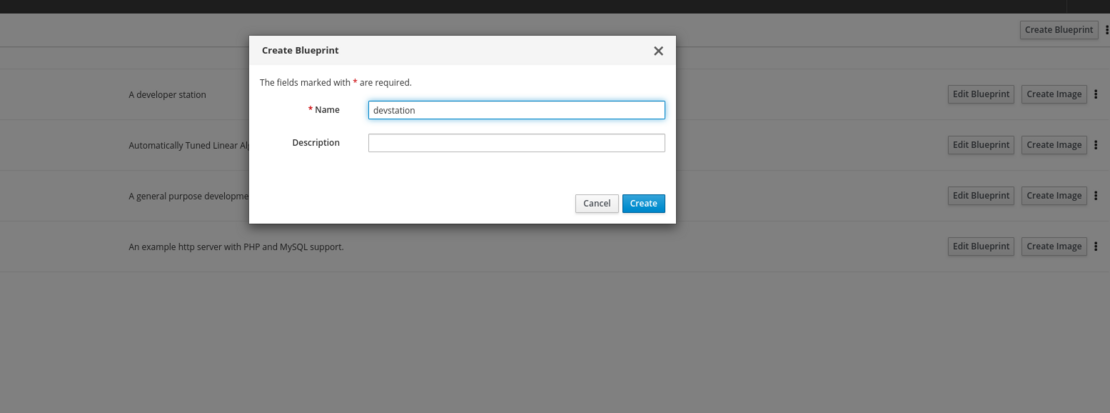
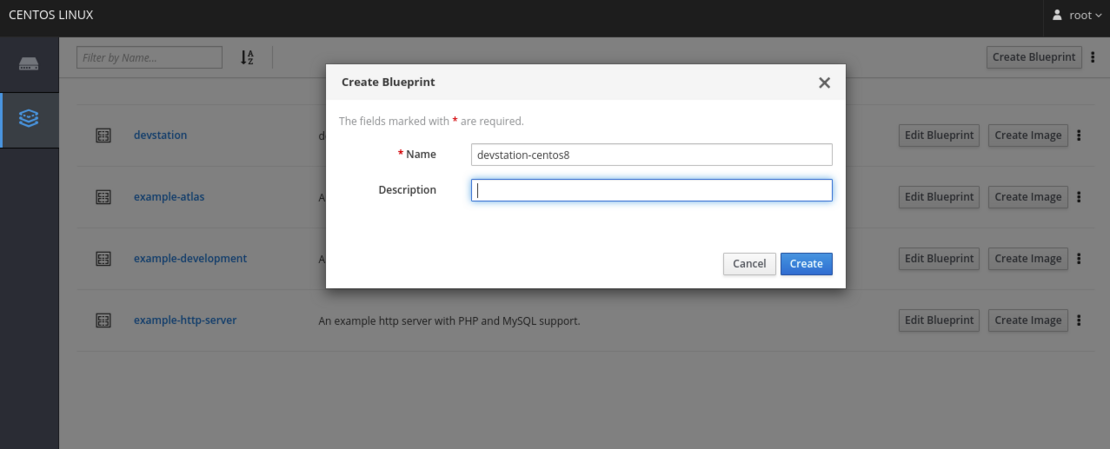
Modifications suggested by ptrnull

diff --git a/_posts/2020-03-11-Customizing-images-for-containerized-vms.md b/_posts/2020-03-11-Customizing-images-for-containerized-vms.md
@@ -29,15 +29,15 @@ pub-year: 2020
 
 - [The vision](#the-vision)
 - [Preparation of the environment](#preparation-of-the-environment)
-  - [Configuration of the Builder image server](#configuration-of-the-builder-image-server)
+    - [Configuration of the Builder image server](#configuration-of-the-builder-image-server)
 - [Building standard CentOS 8 image](#building-standard-centos-8-image)
-  - [Image creation with Builder Tool](#image-creation-with-builder-tool)
-  - [Verify the custom-built image](#verify-the-custom-built-image)
-  - [Image tailoring with virt-customize](#image-tailoring-with-virt-customize)
-- [Building standard CentOS 7 image from cloud images](#building-standard-centos-7-image-from-cloud-images)
-  - [Image creation with virt-customize](#image-creation-with-virt-customize)
+    - [Image creation with Builder Tool](#image-creation-with-builder-tool)
+    - [Verify the custom-built image](#verify-the-custom-built-image)
+    - [Image tailoring with virt-customize](#image-tailoring-with-virt-customize)
+- [Building a standard CentOS 7 image from cloud images](#building-a-standard-centos-7-image-from-cloud-images)
+    - [Image creation with virt-customize](#image-creation-with-virt-customize)
 - [Image containerization procedure](#image-containerization-procedure)
-  - [Store the image in the container registry](#store-the-image-in-the-container-registry)
+    - [Store the image in the container registry](#store-the-image-in-the-container-registry)
 - [Summary](#summary)
 - [References](#references)
 
@@ -81,7 +81,7 @@ Running containerized VMs in KubeVirt uses the [containerDisk](https://kubevirt.
 Prior to run VMs in KubeVirt, it first must be running in the Kubernetes cluster. The company already have an [OKD 4 Kubernetes cluster](https://www.okd.io/) installed which provides out of the box a container registry and some required security features such as _Role Based Access Controls (RBAC)_ and _Security Context Constraints (SCC)_.
 
 > info "Information"
-> [Here](https://blog.openshift.com/enterprise-kubernetes-with-openshift-part-one/) you can find useful information between the similarities and differences between OKD and Kubernetes.
+> In the [OpenShift blog](https://blog.openshift.com/) there is a post called [Enterprise Kubernetes with OpenShift](https://blog.openshift.com/enterprise-kubernetes-with-openshift-part-one/) where you can find valuable information between the similarities and differences between OKD and Kubernetes.
 
 On top of the OKD cluster, KubeVirt is required so that we can run our virtual machines. The installation process is pretty well detailed in the [KubeVirt's documentation](https://kubevirt.io/pages/cloud.html). Below it is shown how KubeVirt components can be seen from the OKD web console.
 
@@ -161,22 +161,23 @@ Along this blog post, both tools are used together in the image building process
 
 ### Configuration of the Builder image server
 
-In order to prepare the building environment, it is recommended to install Image Builder in a dedicated machine as it has specific security requirements. Actually, the `lorax-composer` which is one of its components doesn’t work properly with SELinux running, as it installs an entire OS image in an alternate directory.
+In order to prepare the building environment, it is recommended to install Image Builder in a dedicated server as it has specific security requirements. Actually, the `lorax-composer` which is one of its components doesn’t work properly with SELinux running, as it installs an entire OS image in an alternate directory.
 
 > warning "Warning"
-> As shown in the [lorax-composer documentation](https://weldr.io/Running-Composer-on-RHEL/) SELinux must be disabled. However, I have been able to create custom images successfully with SELinux enabled. During this blog post all image builds are created with SELinux enabled. However, in case you find any problems during your building, check the `lorax-composer` logs in journal in order to get more detailed information.
+> As shown in the [lorax-composer documentation](https://weldr.io/Running-Composer-on-RHEL/) SELinux must be disabled. However, I have been able to create custom images successfully with SELinux enabled. During this blog post all image builds are created with SELinux enabled. In case you find any problems during your building, check the `lorax-composer` logs in journal in order to get more detailed information.
 
 Here it is a table where the software required to run the builds along with the versions have been used.
 
 > note "Note"
 > Operating System is **CentOS 8** since CentOS 7 Image Builder is still an [experimental feature](https://docs.centos.org/en-US/centos/install-guide/Composer/)
 
-| Configuration      | Value                                                                        |
-| ------------------ | ---------------------------------------------------------------------------- |
-| `Operating System` | `CentOS Linux release 8.1.1911 (Core)`                                       |
-| `Libvirt`          | `libvirtd (libvirt) 4.5.0`                                                   |
-| `virt-customize`   | `virt-customize 1.38.4rhel=8,release=14.module_el8.1.0+248+298dec18,libvirt` |
-| `Image Builder`    | `lorax-composer, composer-cli, (composer-cli-28.14.30-1), cockpit-composer`  |
+
+| Component     | Version                                                                                            |
+| --------- | ----------------------------------------------------------------------------------------------- |
+| Operating System  | CentOS Linux release 8.1.1911 (Core) |
+| Libvirt | libvirtd (libvirt) 4.5.0                               |
+| virt-customize | virt-customize 1.38.4rhel=8,release=14.module_el8.1.0+248+298dec18,libvirt |
+| Image Builder | lorax-composer (28.14.30-1), composer-cli (composer-cli-28.14.30-1), cockpit-composer (cockpit-composer-5-1.el8.noarch) |
 
 Once the builder image server is provisioned with latest CentOS 8, the `Virtualization Host` group package is installed. It will be required to test our customized images locally before containerizing and pushing them to the OKD registry.
 
@@ -185,7 +186,9 @@ $ yum groupinstall "Virtualization Host" -y
 $ systemctl enable libvirtd --now
 ```
 
-Next, `virt-customize` is installed from the `libguestfs-tools` package along with the Image Builder. The latest is composed by lorax-composer, the Cockpit composer plugin and the composer-cli, which will be used in case we want to interact directly with Composer.
+<br>
+
+Next, `virt-customize` is installed from the `libguestfs-tools` package along with the Image Builder. The latest is composed by lorax-composer, the Cockpit composer plugin and the composer-cli, which will be used to interact directly with Composer using command-line.
 
 ```sh
 $ dnf install -y libguestfs-tools lorax-composer composer-cli cockpit-composer
@@ -194,13 +197,16 @@ $ systemctl enable lorax-composer --now
 $ systemctl start cockpit
 ```
 
-Then, the local firewall is configured so that we can connect to the Cockpit user interface via HTTP from our workstation.
+<br>
+
+Then, the local firewall is configured so that we can connect to the Cockpit web user interface from our workstation.
 
 ```sh
 $ firewall-cmd --add-service=cockpit && firewall-cmd --add-service=cockpit --permanent
 ```
+<br>
 
-Finally, verify you can connect to the Cockpit user interface and log in with the builder image server local account.
+Finally, connect to the Cockpit user interface by typing the IP or name of the Builder image server and port _tcp/9000_ (Cockpit's default) in your favourite web browser. Then, log in with a local administrator account.
 
 <div class="my-gallery" itemscope itemtype="http://schema.org/ImageGallery">
   <figure
@@ -248,13 +254,21 @@ The following image shows the Image Build plugin web page. Actually, what it is 
   </figure>
 </div>
 
+> error "Error"
+> If Cockpit's web UI is not working, take a look at the output of the lorax service with the command: 
+> ```sh
+> $ journalctl -fu lorax-composer
+> ```
+
+
+
 ## Building standard CentOS 8 image
 
 It is time to create our standardized CentOS 8 image or also called golden CentOS 8 image. This image will be built from the ground up using the Image Builder tool.
 
 ### Image creation with Builder Tool
 
-The easiest way to start is creating a new blueprint from the Cockpit user interface. This will produce a scaffold file where all the required modifications can be made. Here it is shown the process of creation a new blueprint from Cockpit:
+The easiest way to start is creating a new blueprint (devstation-centos8) from the Cockpit user interface. This will produce a scaffold file where all the required modifications can be made. Here it is shown the process of creation a new blueprint from Cockpit:
 
 <div class="my-gallery" itemscope itemtype="http://schema.org/ImageGallery">
   <figure
@@ -265,7 +279,7 @@ The easiest way to start is creating a new blueprint from the Cockpit user inter
     <a
       href="/assets/2020-03-11-Customizing-images-for-containerized-vms/create_blueprint.png"
       itemprop="contentUrl"
-      data-size="1110x413"
+      data-size="1110x449"
     >
       <img
         src="/assets/2020-03-11-Customizing-images-for-containerized-vms/create_blueprint.png"
@@ -278,14 +292,38 @@ The easiest way to start is creating a new blueprint from the Cockpit user inter
   </figure>
 </div>
 
-I would also suggest adding some users and all the packages you want to install from the user interface. In our case, we are going to create the following users. In both cases, the password is known by the respective group of users and also belongs to the wheel group.
+I would also suggest adding some users and all the packages you want to install from the user interface. In our case, we are going to create the following users by clicking on the details tab of the new blueprint. In both cases, the password is known by the respective group of users and also belongs to the wheel group.
 
 | Users     | Note                                                                                            |
 | --------- | ----------------------------------------------------------------------------------------------- |
 | sysadmin  | Privileged user owned by the Systems Engineering team to troubleshoot and have access to the VM |
 | developer | These are the credentials used by the developers to access the VM                               |
 
-Next, specify the packages to include. Add the proper version of the package already agreed with the customer.
+
+<div class="my-gallery" itemscope itemtype="http://schema.org/ImageGallery">
+  <figure
+    itemprop="associatedMedia"
+    itemscope
+    itemtype="http://schema.org/ImageObject"
+  >
+    <a
+      href="/assets/2020-03-11-Customizing-images-for-containerized-vms/users.png"
+      itemprop="contentUrl"
+      data-size="1110x380"
+    >
+      <img
+        src="/assets/2020-03-11-Customizing-images-for-containerized-vms/users.png"
+        itemprop="thumbnail"
+        width="100%"
+        alt="VM to VM"
+      />
+    </a>
+    <figcaption itemprop="caption description"></figcaption>
+  </figure>
+</div>
+
+
+Next, select the packages to include. Add the proper version of the package already agreed with the customer.
 
 | Package        | Version |
 | -------------- | ------- |
@@ -333,7 +371,10 @@ $ ls
 devstation-centos8.toml
 ```
 
-Now, let’s edit the `devstation-centos8.toml` file which is in charge of building our custom image:
+> info "Information"
+> All composer-cli options are documented in the [official webpage](https://weldr.io/lorax/composer-cli.html). Take a look if you need further detail.
+
+Now, let’s edit the `devstation-centos8.toml` file which is in charge of building our custom image. 
 
 - The timezone has been added to match Europe/Madrid with proper NTP servers.
 - The kernel has been modified to allow connection via console.
@@ -447,7 +488,7 @@ Mar 02 09:19:09 eko7.cloud.lab.eng.bos.redhat.com lorax-composer[26293]: 2020-03
 ...
 ```
 
-Once the building image is finished, it is time to download the `qcow2` file. It can be downloaded from Cockpit or from the composer-cli:
+Once the building process is finished, it is time to download the `QCOW2` file. It can be downloaded from Cockpit UI or from the composer-cli:
 
 ```sh
 $ composer-cli compose image ea8089f6-7e60-4282-a4e8-5c168246c0b6
@@ -458,7 +499,7 @@ $ ls -lhrt
 -rw-r--r--. 1 root root 1.9G Mar  2 09:31 ea8089f6-7e60-4282-a4e8-5c168246c0b6-disk.qcow2
 ```
 
-Afterwards the image is renamed to something more meaningful and the information given by qemu reviewed as exhibited below:
+Afterwards, the image is renamed to something more meaningful and the information given by qemu reviewed as exhibited below:
 
 ```sh
 $ mv ea8089f6-7e60-4282-a4e8-5c168246c0b6-disk.qcow2 golden-devstation-centos8-disk.qcow2
@@ -479,17 +520,31 @@ Format specific information:
 > warning "Warning"
 > Virtual size of the image is 4.4G, since we agreed 10G the disk must be resized and root filesystem expanded before being containerized. Currently, there is no way to specify disk capacity in containerDisk as it can be done with [emptyDisks](https://github.com/kubevirt/kubevirt/blob/master/docs/container-empty-disks.md#implementation). The size of the root filesystem and disk when running in KubeVirt is driven by the image.
 
+> warning "Warning"
+> It is recommended to save the QCOW2 images under /var/lib/libvirt/images/ so that qemu user have permissions to expand or resize them.
+
 ```sh
 $ qemu-img resize golden-devstation-centos8-disk.qcow2 10G
 Image resized.
 ```
 
-The expansion is executed on the root partition, which in case of our golden image is **/dev/vda2** partition. It must be checked previously. Note that a copy of the golden image has been created and that's the one expanded.
+The expansion is executed on the root partition, which in case of our golden image is **/dev/sda2** partition. It must be checked previously, for instance using the _virt-filesystems_ utility:
+
+```sh
+$ virt-filesystems --partitions --long -a golden-devstation-centos8-disk.qcow2
+Name       Type       MBR  Size        Parent
+/dev/sda1  partition  83   1073741824  /dev/sda
+/dev/sda2  partition  83   9661382656  /dev/sda
+```
+
+<br>
+
+Note that a **copy of the golden image** is created and that's the one expanded.
 
 ```sh
 $ cp golden-devstation-centos8-disk.qcow2 golden-devstation-centos8-disk-10G.qcow2
-$ virt-resize --expand /dev/vda2 golden-devstation-centos8-disk.qcow2 golden-devstation-centos8-disk-10G.qcow2
-[   0.0] Examining golden-devstation-centos8-disk.qcow2
+$ virt-resize --expand /dev/sda2  golden-devstation-centos8-disk.qcow2 golden-devstation-centos8-disk-10G.qcow2
+[   0.0] Examining golden-devstation-centos8-disk-10G.qcow2
 **********
 
 Summary of changes:
@@ -511,7 +566,7 @@ Resize operation completed with no errors.  Before deleting the old disk,
 carefully check that the resized disk boots and works correctly.
 ```
 
-Finally, verify that the image meets the expected values:
+Finally, it is verified that the image meets the expected size (see virtual size):
 
 ```sh
 $ qemu-img info golden-devstation-centos8-disk-10G.qcow2
@@ -528,7 +583,7 @@ Format specific information:
 ```
 
 > note "Note"
-> If you want to allow the developer choosing between multiple flavours, e.g. different root filesystem sizes, you can end up with multiple containerized VM images. If you just need an additional block device, `emptyDisk` is the proper way to go.
+> In case the developers are allowed to select between multiple flavours, e.g. different root filesystem sizes, you will end up with multiple containerized VM images. In the event that an additional block device is needed, `emptyDisk` is the proper way to go.
 
 ### Verify the custom-built image
 
@@ -620,7 +675,7 @@ Please contact us at sysadmin@corporate.com
 
 ### Image tailoring with virt-customize
 
-In the previous section, we have verified that the golden image has been successfully built. However, there are few things that need to be added so that the golden image can be successfully containerized and run on top of our OKD Kubernetes cluster.
+In the previous section, we verified that the golden image was successfully built. However, there are still a few things that need to be added so that the golden image can be successfully containerized and run on top of our OKD Kubernetes cluster.
 
 First, a worthy package that is suggested to be included in the golden image is [cloud-init](https://cloud-init.io/). KubeVirt allows you to create VM objects along with [cloud-init](https://kubevirt.io/user-guide/docs/latest/creating-virtual-machines/startup-scripts.html#cloud-init) configurations. Cloud-init will let our developers further adapt the custom image to their application needs. On the other hand, it has been agreed with the Software Engineering team to add a graphical interface to the custom image since there are developers that are not familiar with the terminal.
 
@@ -652,20 +707,21 @@ At this point it has been built:
 
 ## Building a standard CentOS 7 image from cloud images
 
-In the previous section, it was shown how we can build and customize images from scratch using the Builder Image tool. However, there are settings that could not be configured even with the composer-cli. Thus, virt-customize was used to fine-tune the custom image, i.e, add cloud-init and a graphical user interface.
+In the previous section, it was shown how we can build and customize images from scratch using the Builder Image tool. However, there are settings that could not be configured even with the composer-cli. Thus, _virt-customize_ is used to fine-tune the custom image, i.e, add cloud-init and a graphical user interface.
 
-Since the Builder Tool is an [experimental tool in CentOS 7.6](https://docs.centos.org/en-US/centos/install-guide/Composer/), the company continues creating their golden CentOS 7 images based on CentOS cloud images. Comparing with the CentOS 8 workflow, this image is the golden image even it is not built by the Systems Engineering department.
+Since the Builder Tool is an [experimental tool in CentOS 7.6](https://docs.centos.org/en-US/centos/install-guide/Composer/), the company continues creating their golden CentOS 7 images based on CentOS cloud images. Comparing with the CentOS 8 workflow, the cloud image corresponds to the golden image even it is not built by the Systems Engineering department.
 
 > warning "Warning"
 > Note that with CentOS 7 images, the company is trusting a cloud image provided by a third party instead of creating one from scratch.
 
 ### Image creation with virt-customize
 
-The process to create the golden CentOS 7 image is quite similar to the CentOS 8 one. However, in this case, the customize procedure is entirely done with virt-customize. The first step is to download the cloud image.
+The process to create the golden CentOS 7 image is quite similar to the CentOS 8 one. However, in this case, the customize procedure is entirely done with _virt-customize_. The first step is to download the cloud image.
 
 ```sh
-$ curl -o /var/lib/libvirt/images/CentOS-7-x86_64-GenericCloud.qcow2c https://cloud.centos.org/centos/7/images/CentOS-7-x86_64-GenericCloud.qcow2c
+$ curl -o /var/lib/libvirt/images/CentOS-7-x86_64-GenericCloud.qcow2 https://cloud.centos.org/centos/7/images/CentOS-7-x86_64-GenericCloud.qcow2
 ```
+<br>
 
 Then, it is required to resize and expand the image to meet the agreed size of 10GB. The details are the same explained in the [previous section](#image-creation-with-builder-tool)
 
@@ -679,10 +735,16 @@ cluster_size: 65536
 Format specific information:
     compat: 0.10
     refcount bits: 16
+
+$ qemu-img resize golden-devstation-centos7-disk.qcow2 10G
+Image resized.
+
+$ cp golden-devstation-centos7-disk.qcow2 golden-devstation-centos7-disk-10G.qcow2
+$ virt-resize --expand /dev/sda1  golden-devstation-centos7-disk.qcow2 golden-devstation-centos7-disk-10G.qcow2
 ```
 
 > warning "Warning"
-> In this case, unlike CentOS 8 image, the partition where the root filesystem resides is **/dev/vda1**. That’s the partition that needs to be expanded.
+> In this case, unlike CentOS 8 image, the partition where the root filesystem resides is **/dev/sda1**. That’s the partition that needs to be expanded.
 
 Below it is the `virt-customize` command that modifies the CentOS 7 _expanded_ cloud image by:
 
@@ -690,11 +752,20 @@ Below it is the `virt-customize` command that modifies the CentOS 7 _expanded_ c
 - Changing the root password
 - Setting devstation as hostname to the customized image
 - Configuring the time zone
-- Enabling and starting the installed services
-- Including files from the manual.
+- Enabling the installed services
+- Including files from the manual. 
+
+> note "Note"
+> Manual files must be pulled first from [alosadagrande/lorax](https://github.com/alosadagrande/lorax) GitHub repository.
 
 ```sh
-$ virt-customize --format qcow2 -a /var/lib/libvirt/images/golden-devstation-centos7-disk-10G.qcow2 --install cloud-init,mod_ssl,httpd,mariadb-server,php,openssh-server --memsize 4096  --hostname devstation  --selinux-relabel --timezone Europe/Madrid --root-password password:toor --password centos:password:developer123 --run-command ‘systemctl enable httpd --now’ --run-command ‘systemctl enable mariadb --now’ --mkdir /var/www/html/manual --upload /root/devstation-code/lorax/index.html:/var/www/html/manual/index.html
+$ virt-customize --format qcow2 -a /var/lib/libvirt/images/golden-devstation-centos7-disk-10G.qcow2 \
+                                --install cloud-init,mod_ssl,httpd,mariadb-server,php,openssh-server \ 
+                                --memsize 4096  --hostname devstation  --selinux-relabel --timezone Europe/Madrid \ 
+                                --root-password password:toor --password centos:password:developer123 \ 
+                                --run-command 'systemctl enable httpd' --run-command 'systemctl enable mariadb' \ 
+                                --mkdir /var/www/html/manual --upload ~/lorax/index.html:/var/www/html/manual/index.html
+                                
 [   0.0] Examining the guest ...
 [   4.7] Setting a random seed
 [   4.7] Installing packages: mod_ssl httpd mariadb-server php openssh-server
@@ -708,11 +779,13 @@ $ virt-customize --format qcow2 -a /var/lib/libvirt/images/golden-devstation-cen
 ```
 
 > info "Information"
-> Instead of executing all parameters in the command-line it is possible to create a file that is used as an input file for virt-customize. See option [commands-from-file](http://libguestfs.org/virt-customize.1.html)
+> Instead of executing all parameters in the command-line it is possible to create a file that is used as an input file for _virt-customize_. See option [commands-from-file](http://libguestfs.org/virt-customize.1.html)
 
-Finally, include the GNOME GUI to the expanded CentOS 7 image.
+Eventually, the GNOME binaries need to be included in the CentOS 7 image with graphical user interface. As seen below, the already _expanded_ image is copied to a new image called _golden-devstation-centos7-disk-10G-gui.qcow2_ and installed the proper group package (GNOME Desktop).
 
 ```sh
+$ cp golden-devstation-centos7-disk-10G.qcow2 golden-devstation-centos7-disk-10G-gui.qcow2
+
 $ virt-customize --format qcow2 -a /var/lib/libvirt/images/golden-devstation-centos7-disk-10G-gui.qcow2 --install cloud-init --memsize 4096 --run-command "yum groupinstall 'GNOME Desktop' -y" --run-command "systemctl set-default graphical.target" --selinux-relabel
 [   0.0] Examining the guest ...
 [   4.7] Setting a random seed
@@ -843,7 +916,7 @@ Storing signatures
 Verify that the images are stored correctly in the OKD container registry by checking the [imageStream](https://docs.openshift.com/container-platform/4.3/openshift_images/image-streams-manage.html#working-with-imagestreams). As shown below, both images were uploaded successfully since the `devstation` imagestream contains two images with v8-gui and v8-terminal tags respectively.
 
 ```sh
-oc describe imagestream devstation -n openshift
+$ oc describe imagestream devstation -n openshift
 Name:			devstation
 Namespace:		openshift
 Created:		23 hours ago
